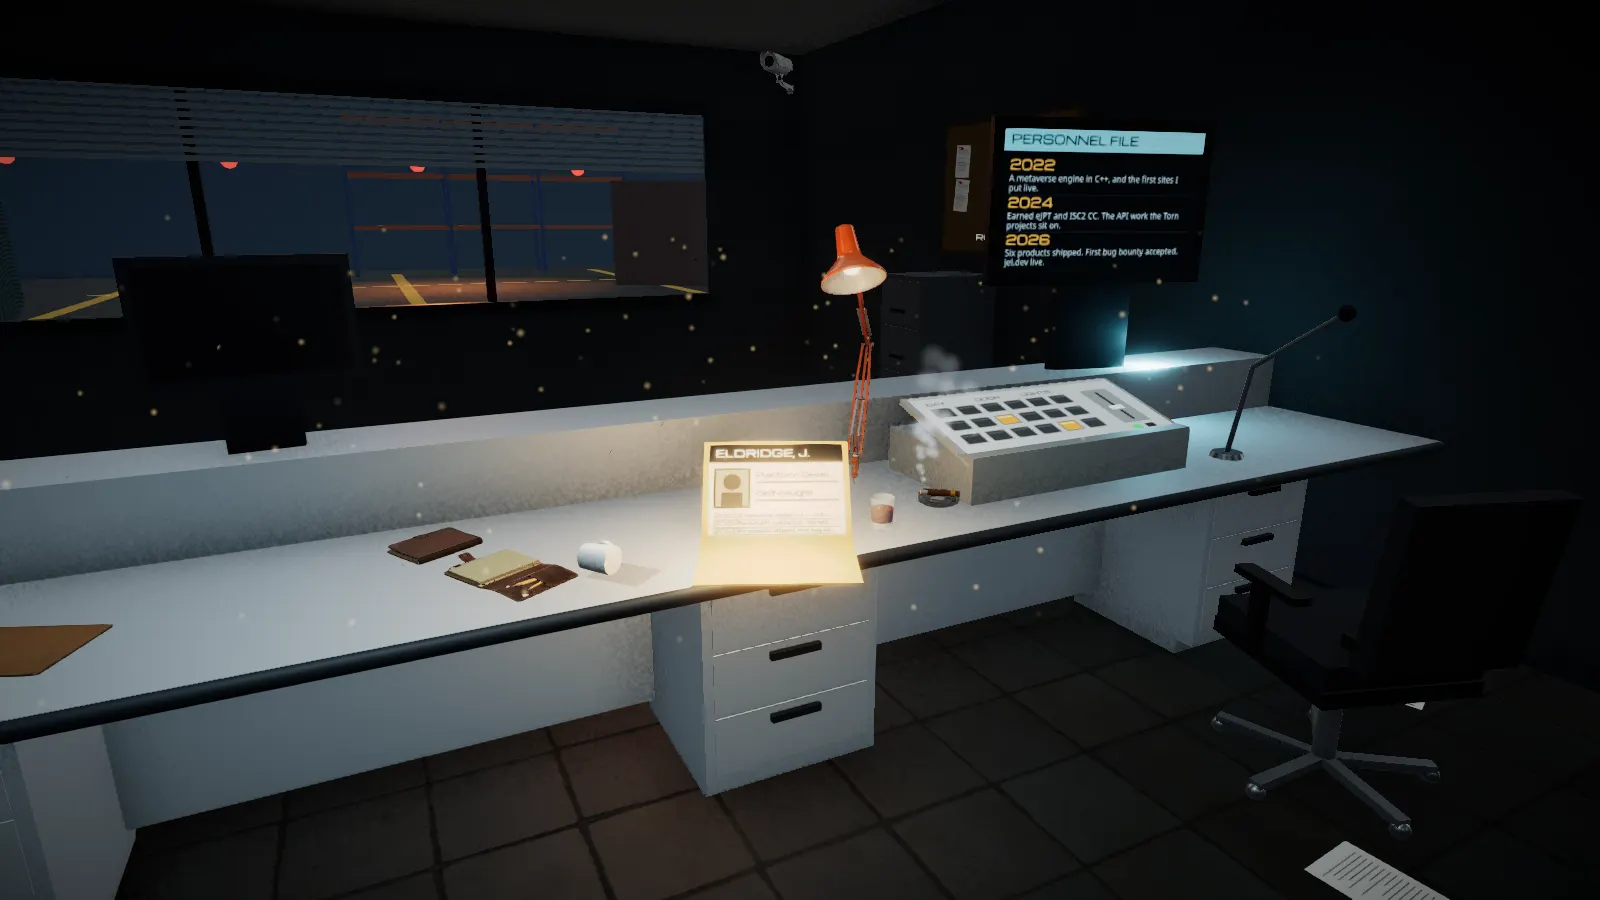
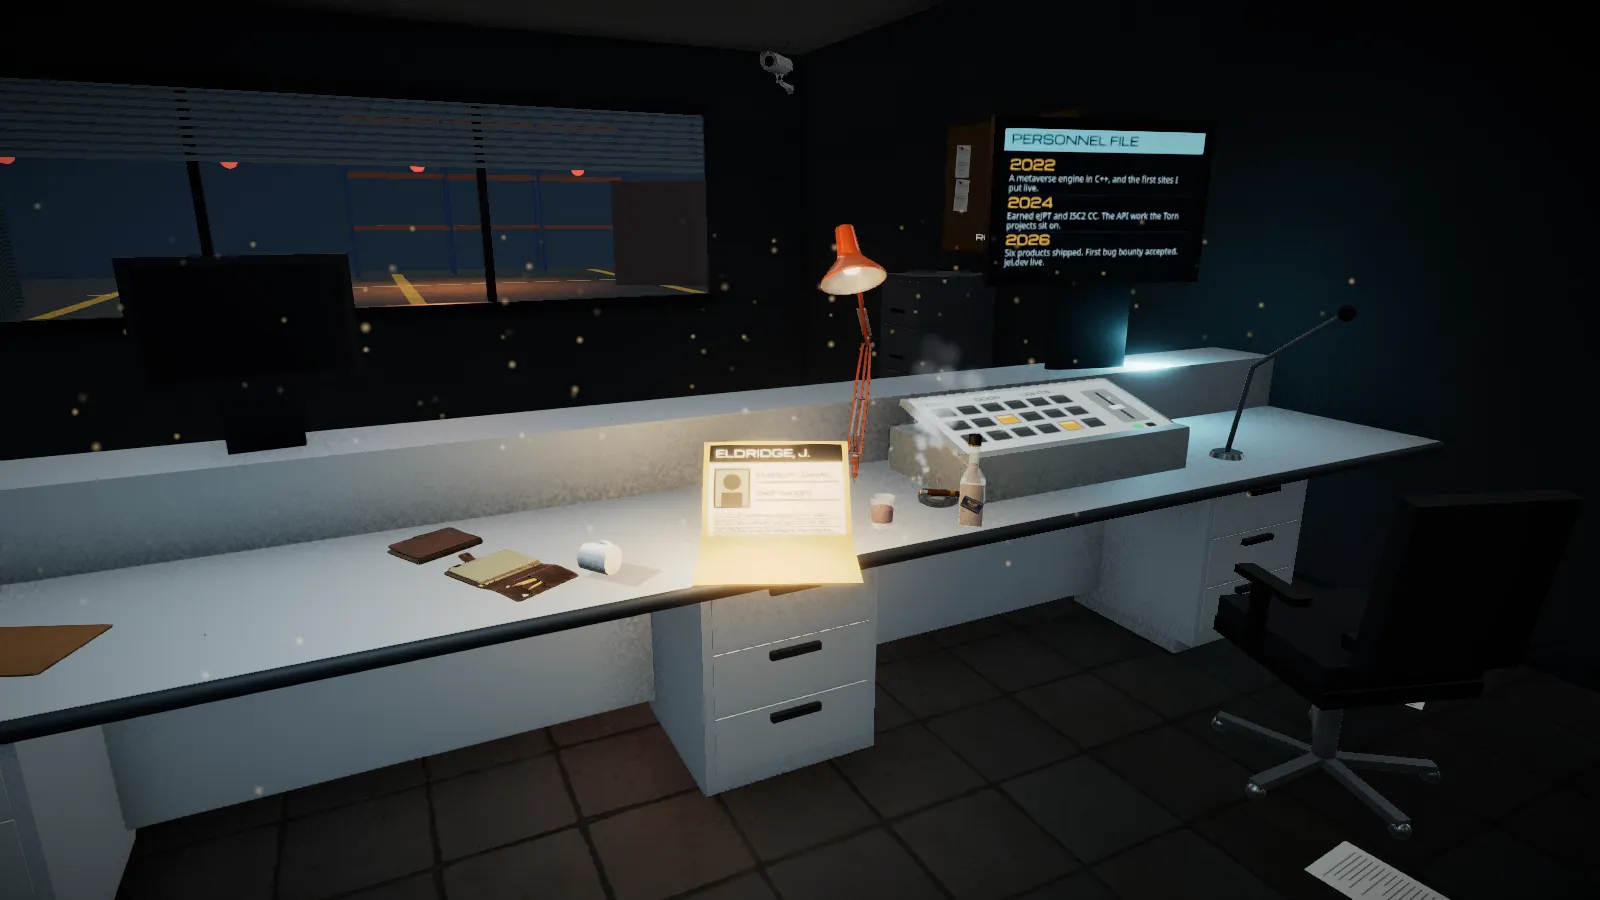
Stand the bottle next to the glass
A glass of something amber on its own is a glass of something amber. The
bottle it came out of is on the front edge of the top now, between the
glass and the ashtray, where the lamp reaches it: a square bottle with a
tapered shoulder, a black cap over a gold collar, and the label set on the
slant.

The label is the shape and the colours rather than the mark, which is what
carries at three metres anyway and keeps somebody else's trademark off the
site. Two things the four sided prism caught me out on: its radius is to
its corners, so the flat face is a root two in from where a cylinder's
would be, and the label has to be small enough that a slant does not hang
its corners off the side of the bottle. It is turned so that flat faces
where the walk ends, at (-70, 30) looking back down the desk.

Changed region(s): [[0.5625, 0.3733, 0.625, 0.5911]]

diff --git a/src/scenes/walk/stages/file/dressing.ts b/src/scenes/walk/stages/file/dressing.ts
@@ -5,8 +5,8 @@ import { grounded, instances, merged, place, type Spot } from '../../merge';
 import { papers } from '../../labs/props';
 import { labSteel } from '../../labs/materials';
 import { controlConsole, controlDesk, monitor, openFile, pinboard, taskChair } from '../../labs/furniture';
-import { consoleFace, personnelSheet, timelineScreen } from '../../labs/textures';
-import { ASHTRAY, DESK, FILE, GLASS, X1, Z1 } from './layout';
+import { canvas, consoleFace, own, personnelSheet, timelineScreen } from '../../labs/textures';
+import { ASHTRAY, BOTTLE, DESK, FILE, GLASS, X1, Z1 } from './layout';
 
 /** A four drawer steel filing cabinet with the top drawer standing open on its folders, 0.5 by 0.62
  *  on plan and 1.32 tall, origin at floor centre, fronts to +z. Room furniture rather than kit: it
@@ -117,6 +117,69 @@ function tumbler(): THREE.Group {
   return g;
 }
 
+/**
+ * The bottle the glass was poured from, life size at 0.27 m, origin at the foot. A square bottle
+ * with a tapered shoulder and the label set on the slant, which is the silhouette anybody who
+ * drinks it will recognise across a room: the four sided prism is a cylinder with four radial
+ * segments, turned a quarter turn so a flat faces the lens rather than a corner.
+ *
+ * The label is the shape and the colours, not the mark. A facsimile of somebody's trademark is not
+ * a thing to put on a portfolio, and at three metres the blue field on the slant with gold rules
+ * over and under it is what carries anyway. Six draw calls.
+ */
+function bottle(): THREE.Group {
+  const g = new THREE.Group();
+  const QUARTER = Math.PI / 4;
+  const glass = new THREE.MeshPhysicalMaterial({ color: 0xbfd6cf, roughness: 0.05, metalness: 0, transparent: true, opacity: 0.42, side: THREE.DoubleSide });
+  const spirit = new THREE.MeshStandardMaterial({ color: 0x7a3206, roughness: 0.1, metalness: 0.08, emissive: 0x933c06, emissiveIntensity: 0.16 });
+  // The spirit first, so the glass draws over it: body to four fifths, and up the neck a little.
+  g.add(merged([
+    new THREE.CylinderGeometry(0.048, 0.048, 0.112, 4).rotateY(QUARTER).translate(0, 0.058, 0),
+    new THREE.CylinderGeometry(0.014, 0.048, 0.046, 4).rotateY(QUARTER).translate(0, 0.137, 0),
+    new THREE.CylinderGeometry(0.012, 0.013, 0.03, 10).translate(0, 0.175, 0),
+  ], spirit));
+  g.add(merged([
+    new THREE.CylinderGeometry(0.053, 0.053, 0.135, 4).rotateY(QUARTER).translate(0, 0.0675, 0),
+    new THREE.CylinderGeometry(0.016, 0.053, 0.05, 4).rotateY(QUARTER).translate(0, 0.16, 0),
+    new THREE.CylinderGeometry(0.0145, 0.0155, 0.055, 12).translate(0, 0.2125, 0),
+    new THREE.CylinderGeometry(0.0175, 0.0165, 0.008, 12).translate(0, 0.244, 0),
+  ], glass));
+  // The stopper: a dark cap with a gold collar under it.
+  const cap = new THREE.Mesh(new THREE.CylinderGeometry(0.019, 0.019, 0.032, 12), new THREE.MeshStandardMaterial({ color: 0x14181d, roughness: 0.45 }));
+  cap.position.y = 0.264; g.add(cap);
+  const collar = new THREE.Mesh(new THREE.CylinderGeometry(0.0196, 0.0196, 0.006, 12), new THREE.MeshStandardMaterial({ color: 0xb2892f, roughness: 0.35, metalness: 0.65 }));
+  collar.position.y = 0.2495; g.add(collar);
+  // The label, on the slant across the front flat.
+  // On the flat, a millimetre proud of it. A four segment cylinder's radius is to its corners, so
+  // the face is r/root two out, not r: at 0.0535 the label floated in the air in front of the glass.
+  // The flat is r root two across, 0.075, and a label set on the slant needs its own width plus a
+  // share of its height inside that. At 0.082 the corners hung off the side of the bottle.
+  const label = new THREE.Mesh(new THREE.PlaneGeometry(0.062, 0.037), new THREE.MeshStandardMaterial({ map: bottleLabel(), roughness: 0.7, side: THREE.DoubleSide }));
+  label.position.set(0, 0.072, 0.0385); label.rotation.z = -0.42; g.add(label);
+  return g;
+}
+
+/** The label: a deep blue field on the slant, gold rules top and bottom, and the words set small.
+ *  340 by 200 for a label 0.085 by 0.05. */
+function bottleLabel(): THREE.CanvasTexture {
+  const W = 340, H = 200;
+  const [c, ctx] = canvas(W, H);
+  ctx.fillStyle = '#0d2b52'; ctx.fillRect(0, 0, W, H);
+  const wash = ctx.createLinearGradient(0, 0, 0, H);
+  wash.addColorStop(0, 'rgba(255,255,255,0.12)'); wash.addColorStop(0.5, 'rgba(255,255,255,0)'); wash.addColorStop(1, 'rgba(0,0,0,0.25)');
+  ctx.fillStyle = wash; ctx.fillRect(0, 0, W, H);
+  ctx.fillStyle = '#caa24a';
+  ctx.fillRect(14, 16, W - 28, 4); ctx.fillRect(14, H - 20, W - 28, 4);
+  ctx.textAlign = 'center'; ctx.textBaseline = 'middle';
+  ctx.font = '600 44px Michroma, system-ui, sans-serif';
+  ctx.fillText('BLUE', W / 2, 78);
+  ctx.font = '600 30px Michroma, system-ui, sans-serif';
+  ctx.fillText('LABEL', W / 2, 124);
+  ctx.font = '600 15px Michroma, system-ui, sans-serif'; ctx.fillStyle = 'rgba(202,162,74,0.8)';
+  ctx.fillText('BLENDED SCOTCH WHISKY', W / 2, 160);
+  return own(c);
+}
+
 /** The lines the form on the open leaf carries, off `site.about` and nothing retyped. The name is
  *  the one derived string: a personnel file is filed under the surname, so the sentence's own
  *  "Jordan Eldridge" is turned round rather than written out again. */
@@ -202,6 +265,11 @@ export async function buildDressing(ctx: StageContext, root: THREE.Group): Promi
   // folder the eye lands on and clear of the console's own footprint.
   await add(place(ashtray(), ASHTRAY[0], TOP, ASHTRAY[1], ASHTRAY_TURN));
   await add(place(tumbler(), GLASS[0], TOP, GLASS[1], 0));
+  // The bottle it came out of, at the back of the top where it stands against the window. A glass
+  // of something amber on its own is a glass of something amber.
+  // Turned so a flat, and the label on it, faces the lens: the walk ends at (-70, 30) looking back
+  // along the desk, so the face the camera reads is the one pointing at -x and -z.
+  await add(place(bottle(), BOTTLE[0], TOP, BOTTLE[1], -2.24));
 
   // The anchor a pinned panel would hang off, half a metre in front of the folder. Nothing in the
   // page carries `data-anchor="file"` yet: the pinned rule in walk.css draws no ground of its own,

diff --git a/src/scenes/walk/stages/file/layout.ts b/src/scenes/walk/stages/file/layout.ts
@@ -61,6 +61,9 @@ export const FILE = { x: -67.85, z: 31.0 };
  */
 export const ASHTRAY: [number, number] = [-67.78, 31.62];
 export const GLASS: [number, number] = [-67.88, 31.34];
+/** The bottle, on the front edge of the top between the glass and the ashtray. Stood at the back
+ *  it was behind the standing file and backlit by the window, which is a dark bottle in the dark. */
+export const BOTTLE: [number, number] = [-67.98, 31.6];
 
 /** The ceiling grid the glass room hangs, which is where the one cold ceiling spot has to sit:
  *  `lighting.ts` enumerates the lit troffers from these numbers exactly the way `ceilingGrid` does,
